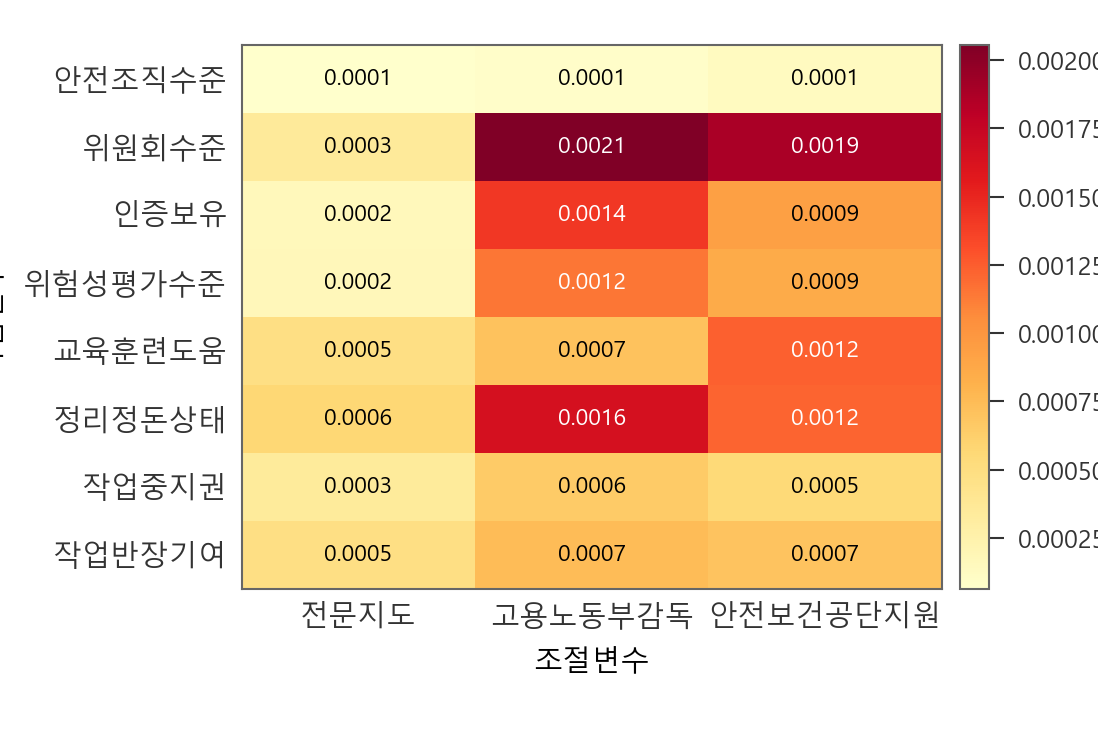
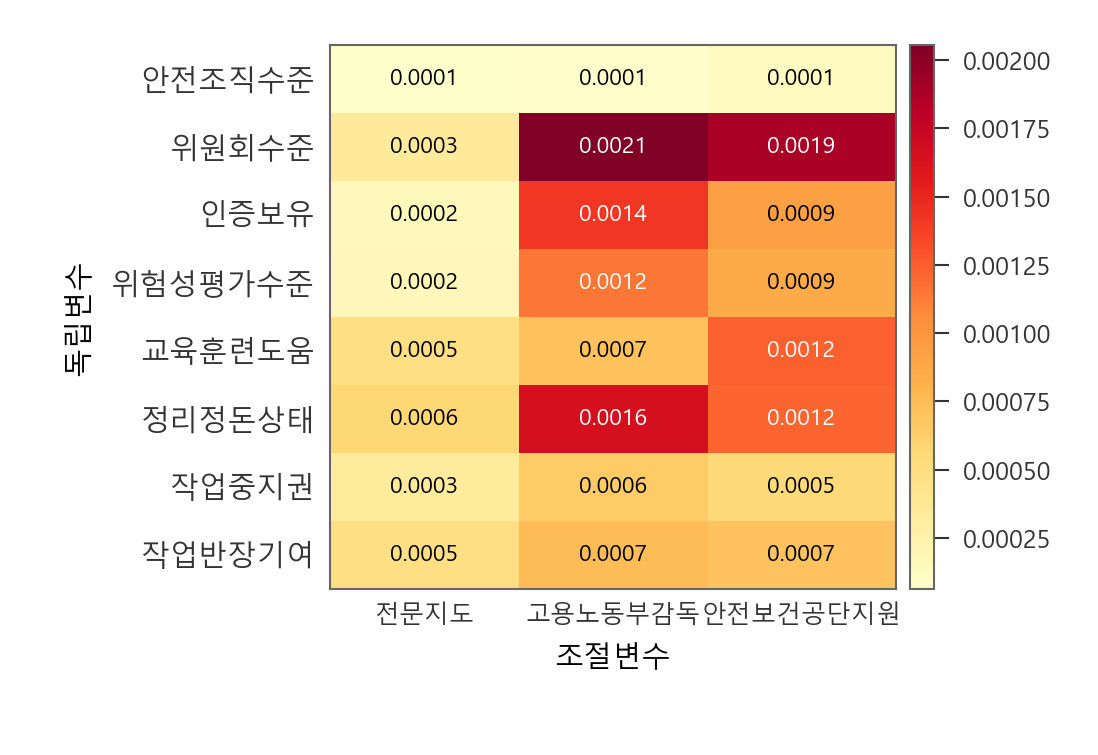
14_heatmap: ylabel '독립변수' 잘림 + colorbar 잘림 수정 (left 0.22→0.30, right 0.90→0.85, xtick fontsize 7→6)

diff --git a/src/paper_figures.py b/src/paper_figures.py
@@ -233,7 +233,7 @@ if mat is None:
 W = 93.03 / 25.4; H = 63.97 / 25.4
 fig = plt.figure(figsize=(W, H))
 gs = GridSpec(1, 2, width_ratios=[24, 1], wspace=0.05,
-              left=0.22, right=0.90, top=0.94, bottom=0.22, figure=fig)
+              left=0.30, right=0.85, top=0.94, bottom=0.22, figure=fig)
 ax = fig.add_subplot(gs[0])
 cax = fig.add_subplot(gs[1])
 
@@ -244,7 +244,7 @@ for i in range(len(rows)):
         text_color = 'white' if v > mat.max() * 0.55 else 'black'
         ax.text(j, i, f'{v:.4f}', ha='center', va='center',
                 fontsize=5.5, color=text_color)
-ax.set_xticks(range(len(cols))); ax.set_xticklabels(cols, fontsize=7)
+ax.set_xticks(range(len(cols))); ax.set_xticklabels(cols, fontsize=6)
 ax.set_yticks(range(len(rows))); ax.set_yticklabels(rows, fontsize=7)
 ax.tick_params(axis='both', length=0)
 ax.set_xlabel('조절변수', fontsize=7)